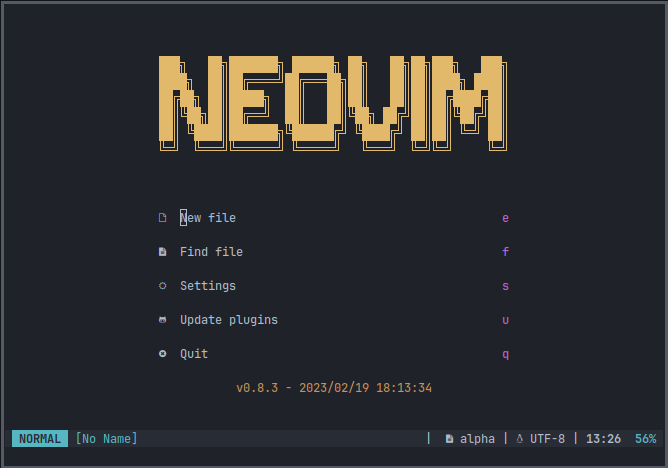
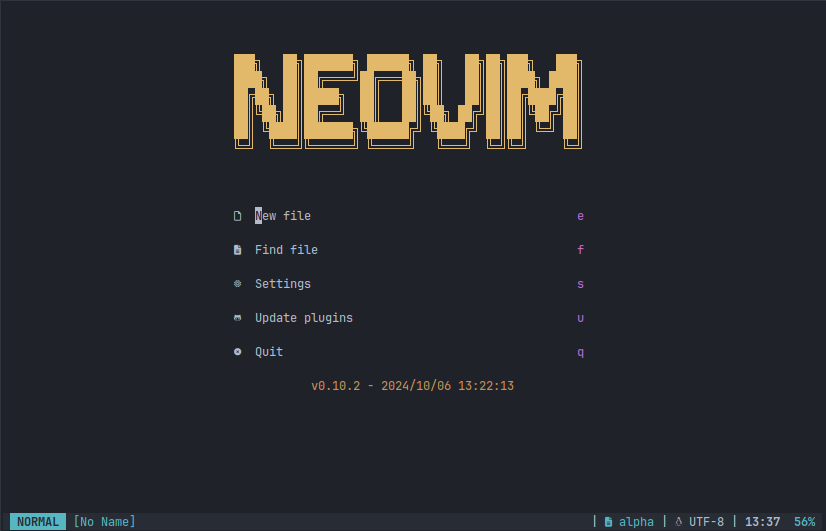
Update Images and screenshots Update README

diff --git a/README.md b/README.md
@@ -187,6 +187,8 @@ See: [nvim-lspconfig #doc/LSP configs](https://github.com/neovim/nvim-lspconfig/
 
 **Icons:** [nvim-web-devicons](https://github.com/kyazdani42/nvim-web-devicons)
 
+See: [Screenshots](#screenshots)
+
 The color scheme (default: OneDark) is defined in the following file:
 
 * Neovim UI - [nvim/lua/core/colors.lua](nvim/lua/core/colors.lua):
@@ -250,7 +252,9 @@ Also you can check the plugins configuration and startup time with `lazy`:
 
 ```vim
 :checkhealth lazy
+```
 
+```vim
 :Lazy profile
 ```
 
@@ -264,21 +268,41 @@ See: [lazy.nvim - Usage](https://lazy.folke.io/usage)
 
 <details><summary> <b>(Click to expand)</b></summary>
 
-**OneDark (darker)**
+**OneDark Darker**
 
-![1-onedark.png](img/1-onedark.png)
+![1-onedark_darker.png](img/1-onedark_darker.png)
+
+**OneDark Dark**
+
+![2-onedark_dark.png](img/2-onedark_dark.png)
+
+**OneDark Cool**
+
+![3-onedark_cool.png](img/3-onedark_cool.png)
+
+**OneDark Deep**
+
+![4-onedark_deep.png](img/4-onedark_deep.png)
+
+**Kanagawa Wave**
+
+![5-kanagawa_wave.png](img/5-kanagawa_wave.png)
+
+**Kanagawa Dragon**
+
+![6-kanagawa_dragon.png](img/6-kanagawa_dragon.png)
 
 **Monokai**
 
-![2-monokai.png](img/2-monokai.png)
+![7-monokai.png](img/7-monokai.png)
 
 **Rosé Pine**
 
-![3-rose-pine.png](img/3-rose-pine.png)
+![8-rose-pine.png](img/8-rose-pine.png)
 
 **lazy.nvim**
 
-![4-lazy-nvim.png](img/4-lazy-nvim.png)
+![lazy-nvim.png](img/lazy-nvim.png)
 
 </details>
 
